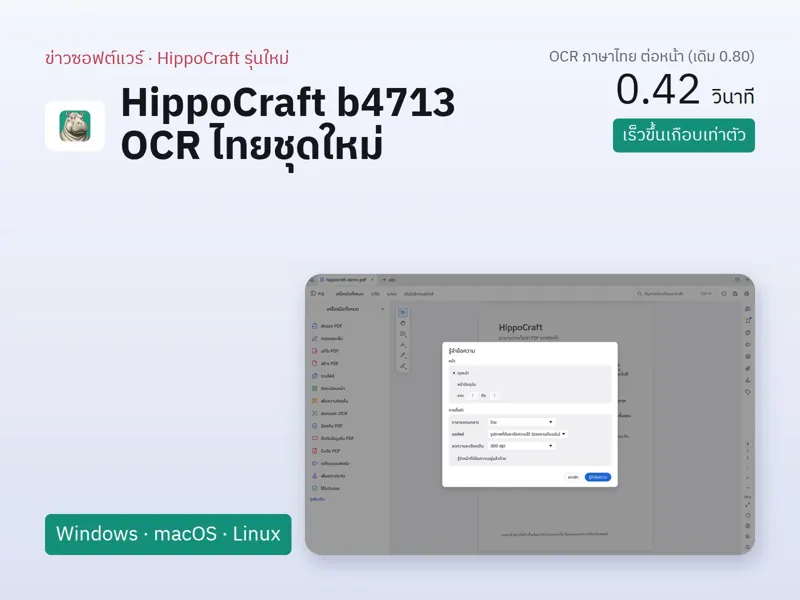
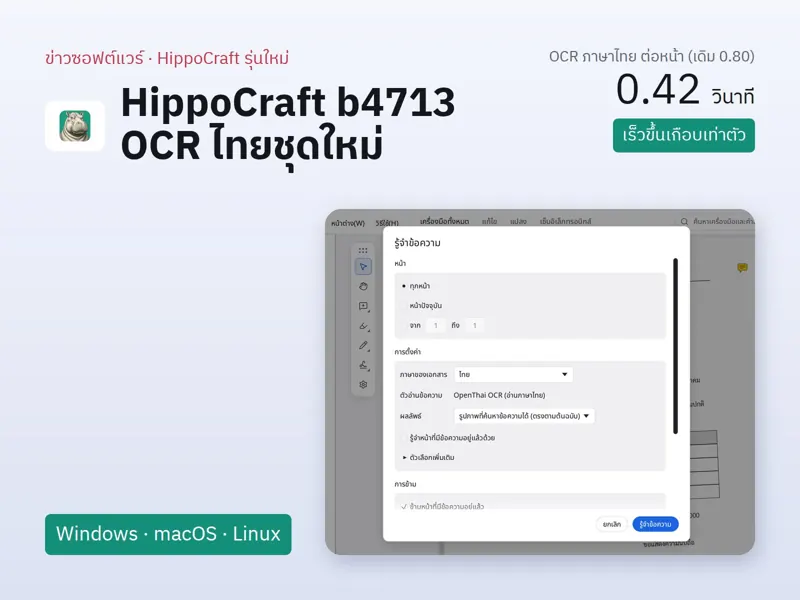
update(hippocraft): b4713 screenshots (6 Thai UI shots, synthetic documents) in project gallery and news post, cover rebuilt on the b4713 OCR dialog (OpenThai OCR); OCR engine row: Thai OpenThai 2.0 (iApp, Apache-2.0), English ocrs, on-device; tech chip OpenThai OCR; speed figure noted as measured o

Changed region(s): [[0.375, 0.33, 0.9688, 0.93]]

diff --git a/src/data/site.js b/src/data/site.js
@@ -94,7 +94,7 @@ export const PROJECTS = [
     tech:["iOS","Android"] },
   { name:"HippoCraft", emoji:"🦛", color:"#2bb673", status:"BETA", statusColor:"#f59e0b", link:"/projects/hippocraft/",
     desc:"โปรแกรมอ่านและแก้ไข PDF เขียนด้วย Rust แก้ข้อความภาษาไทยในไฟล์ได้โดยคงฟอนต์เดิม",
-    tech:["Rust","WebAssembly","PaddleOCR","HarfBuzz","egui"] },
+    tech:["Rust","WebAssembly","OpenThai OCR","HarfBuzz","egui"] },
   { name:"AI OCR Pipeline", emoji:"📄", color:"#f59e0b", status:"PAUSED", statusColor:"#f59e0b", link:"/projects/ai-ocr-pipeline/",
     desc:"ทดลองดึงข้อมูลจากเอกสารภาษาไทยอัตโนมัติด้วย AI — พักไว้ชั่วคราว",
     tech:["Google Apps Script","AI OCR"] },
